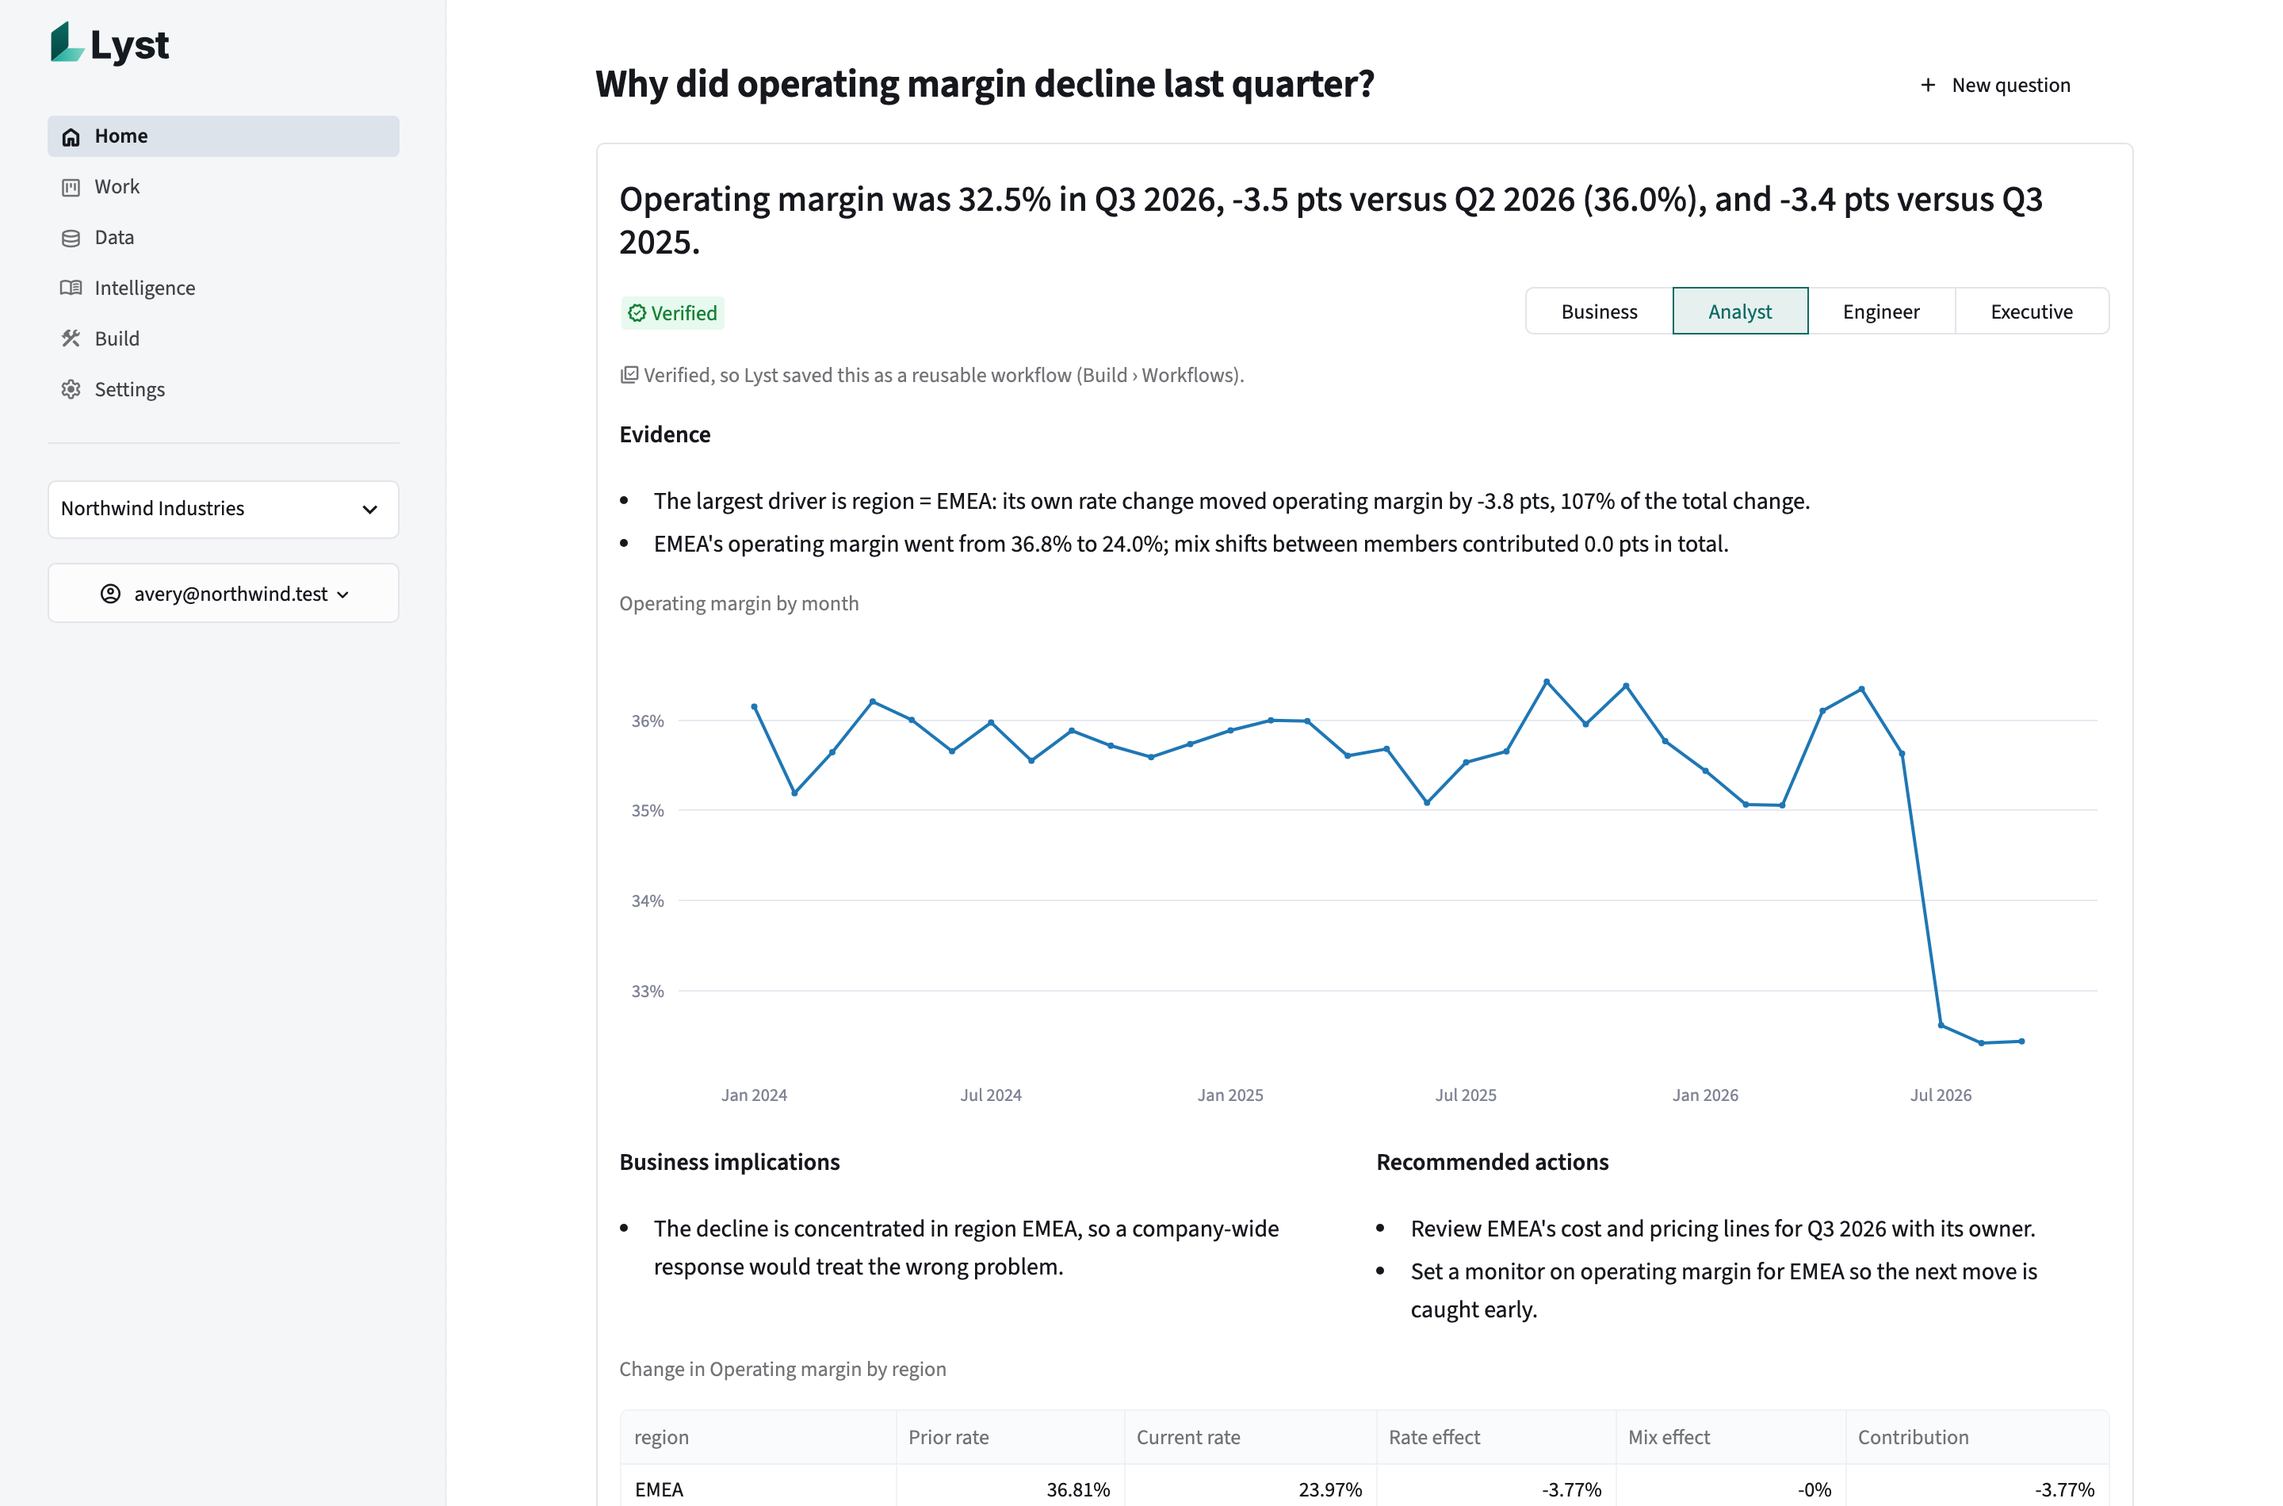
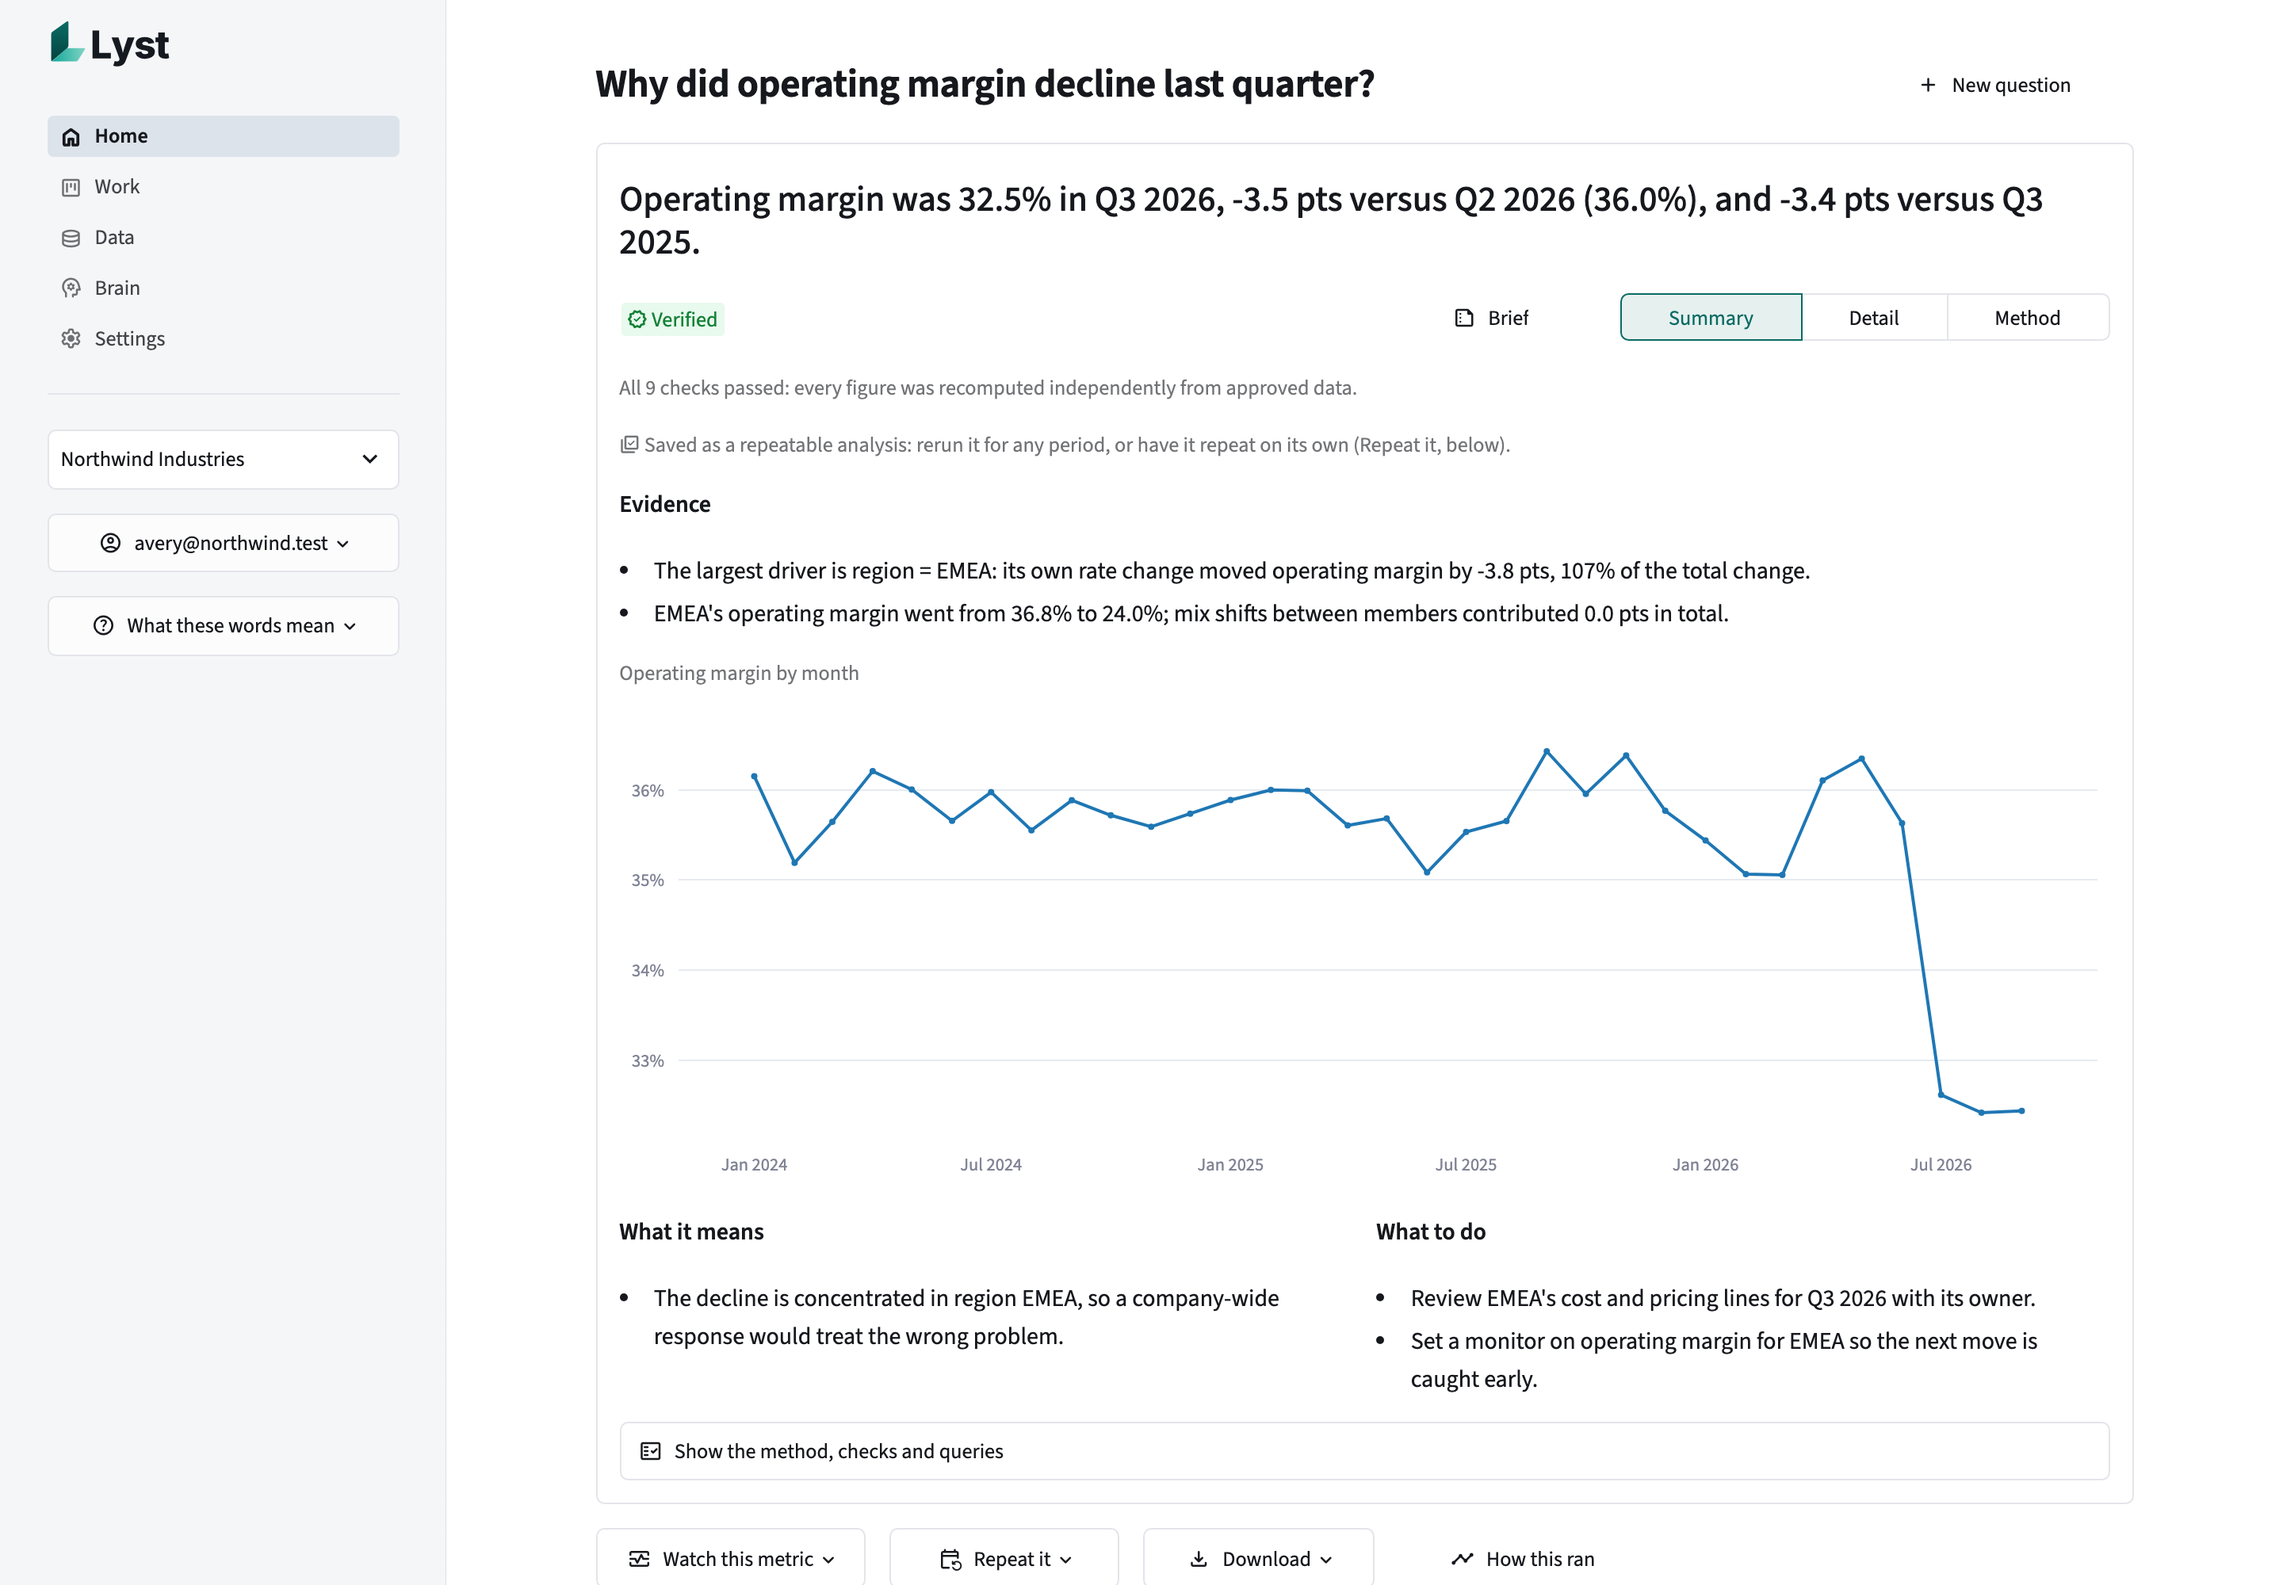
README: refresh for Home, Work, Data, Brain, Settings and Summary/Detail/Method
Brings the README in line with #22 and #23: five areas with Build folded into Data
and Intelligence renamed Brain, answer depths Summary, Detail and Method with the
Brief, metric tiles and Get started on Home, and the act bar (Watch this metric,
Repeat it, Download, How this ran). Settings sections are Models, Connections,
Workspace and Advanced. Screenshots retaken from a fresh demo on main; images for
the removed Build and Intelligence areas are deleted.

diff --git a/README.md b/README.md
@@ -22,7 +22,7 @@ Python, verifies the result independently, and returns a decision-ready answer w
 assumption behind it. It is judged by completed, verifiable work, not by conversation: every number comes from
 a query, whether or not a model is involved.
 
-![Lyst's Home answering why operating margin declined, with evidence, a trend chart and a driver table](docs/images/analyst-light.png)
+![Lyst answering why operating margin declined: a verified answer with evidence, a trend chart, what it means and what to do](docs/images/analyst-light.png)
 
 ## Quick start
 
@@ -40,7 +40,7 @@ demo workspace, starts the engine on `http://127.0.0.1:8770` and opens the inter
 
 Then ask: **"Why did operating margin decline last quarter?"** Lyst finds that operating margin fell from 36.0%
 in Q2 2026 to 32.5% in Q3 2026, that EMEA's own margin drop (36.8% to 24.0%) explains it, reconciles the
-bridge exactly, and saves the analysis as a reusable workflow. That story is planted in the demo data
+bridge exactly, and saves the analysis so it can be rerun for any period. That story is planted in the demo data
 (`src/lyst/demo.py`) so the tests can check that Lyst recovers it.
 
 No model is needed to try it. With none configured, Lyst runs on rules and templates; adding one improves
@@ -48,46 +48,53 @@ understanding and wording, never the numbers.
 
 ## A tour of the interface
 
-One navigation, six areas, light and dark themes.
+One navigation with five areas, light and dark themes, and a "What these words mean" glossary in the sidebar.
 
 | Area | What you do there |
 |---|---|
-| **Home** | Ask a question or describe the work, follow live progress, read the answer, continue where you left off |
-| **Work** | What Lyst is doing, what needs you (approvals), what finished, and what runs on its own (schedules, monitors) |
-| **Data** | Upload files or connect sources, preview and profile datasets, check quality, run guarded SQL |
-| **Intelligence** | Approved metrics and business terms, documents Lyst can cite, and what it remembers and how far to trust it |
-| **Build** | Verified workflows Lyst can rerun for any period, generated dashboards, and governed skills |
-| **Settings** | Inference (model level and costs), Secrets & Connections, members, autonomy and audit |
-
-### Every answer, four depths
-
-The same result reads four ways without rerunning anything. **Business**: the answer, evidence, implications
-and recommended actions. **Analyst**: adds tables, hypotheses, assumptions and sources. **Engineer**: adds the
-plan, every check and every query. **Executive**: the brief and the first thing to do. Limitations stay visible
-at every depth, and each answer exports as a PDF briefing, a deck, an Excel workbook or Markdown.
+| **Home** | Ask in plain words, follow live progress, and read the answer. A Get started card guides the first run, and "This month at a glance" shows a tile per approved metric with a one-click **Why?** |
+| **Work** | What needs you (approvals), what Lyst is doing and finished, and what runs on its own: watched metrics, scheduled questions and what Lyst noticed |
+| **Data** | Datasets and their sources, dashboards, saved analyses, and guarded SQL. **Add data** uploads a file or connects a source |
+| **Brain** | What Lyst knows about the business: approved metrics and business terms, documents it can cite, and what it remembers and how far to trust it |
+| **Settings** | Models (level and costs), Connections (keys and sources), Workspace (members, autonomy, audit trail) and Advanced (skills, capabilities, evaluation runs) |
 
 <p align="center">
-  <img src="docs/images/analyst-dark.png" alt="The same answer in the dark theme, rerun from a verified workflow" width="49%">
-  <img src="docs/images/home.png" alt="Home: ask Lyst, suggested questions and recent work" width="49%">
+  <img src="docs/images/home.png" alt="Home: the ask box, the Get started card and this month's metric tiles" width="80%">
+</p>
+
+### Every answer: Summary, Detail, Method, and a Brief
+
+Answers open at **Summary**: the answer, a one-line trust statement ("All 9 checks passed"), the evidence, a
+chart, what it means and what to do. **Detail** adds tables, hypotheses, assumptions and sources. **Method** adds
+the plan, every check and every query. **Brief** opens the two-line version with one chart, what to do and the PDF
+briefing, ready to forward; executive requests lead with it. Limitations stay visible at every depth.
+
+Under each answer you can act on it: **Watch this metric** sets up a monitor, **Repeat it** reruns the saved
+analysis on a schedule, **Download** gives a PDF briefing, a deck, an Excel workbook or Markdown, and **How this
+ran** shows each step, query and model call with its timing.
+
+<p align="center">
+  <img src="docs/images/brief.png" alt="The Brief: the answer, the trust line, one chart, what to do and the PDF briefing" width="49%">
+  <img src="docs/images/analyst-dark.png" alt="The same answer in the dark theme, at the Summary depth" width="49%">
 </p>
 
 <table>
   <tr>
-    <td width="50%"><img src="docs/images/work.png" alt="Work: running, done and stopped tasks"><br><b>Work</b>: needs you, activity and recurring runs</td>
-    <td width="50%"><img src="docs/images/data.png" alt="Data: datasets with rows, versions and classification"><br><b>Data</b>: datasets, connections and SQL</td>
+    <td width="50%"><img src="docs/images/work.png" alt="Work: needs you, activity and recurring runs"><br><b>Work</b>: needs you, activity and recurring runs</td>
+    <td width="50%"><img src="docs/images/data.png" alt="Data: datasets with descriptions, rows, freshness and classification"><br><b>Data</b>: datasets, dashboards, saved analyses and SQL</td>
   </tr>
   <tr>
-    <td><img src="docs/images/intelligence.png" alt="Intelligence: approved metrics and business terms"><br><b>Intelligence</b>: definitions, documents and memory</td>
-    <td><img src="docs/images/build.png" alt="Build: verified workflows ready to rerun"><br><b>Build</b>: workflows, dashboards and skills</td>
+    <td><img src="docs/images/brain.png" alt="Brain: approved metrics and business terms"><br><b>Brain</b>: definitions, documents and memory</td>
+    <td><img src="docs/images/saved-analyses.png" alt="Data, Saved analyses: a verified analysis ready to rerun"><br><b>Saved analyses</b>: verified work Lyst reruns for any period</td>
   </tr>
 </table>
 
 ### Dashboards from a sentence
 
-Build › New dashboard turns a request into a Plotly Dash app on Lyst's own kit (`src/lyst/dashkit`, vendored
-into each app so it runs anywhere with PyPI packages only): governed metrics, verified SQL, KPI cards, a trend
-with a forecast band, click-to-filter breakdowns, and a Data and method page. Every generated app is checked in
-a separate interpreter before it is offered.
+Data › Dashboards › **New dashboard** turns a request into a Plotly Dash app on Lyst's own kit
+(`src/lyst/dashkit`, vendored into each app so it runs anywhere with PyPI packages only): governed metrics,
+verified SQL, KPI cards, a trend with a forecast band, click-to-filter breakdowns, and a Data and method page.
+Every generated app is checked in a separate interpreter before it is offered.
 
 ![A generated dashboard: KPI cards, trend with forecast and breakdowns](docs/images/dash-overview-light.png)
 
@@ -100,8 +107,8 @@ a separate interpreter before it is offered.
 * **Checks its own work.** Independent validation scaled to consequence (high-stakes answers are recomputed from
   raw rows in pandas), join fan-out and stale-source detection, ambiguous terms surfaced instead of guessed, and
   model wording verified against the computed numbers.
-* **Gets faster with use.** A verified analysis compiles into a typed, versioned workflow. Matching requests
-  reuse it, and a changed schema or metric definition marks it out of date.
+* **Gets faster with use.** A verified analysis compiles into a typed, versioned saved analysis. Matching
+  requests reuse it, and a changed data layout or metric definition marks it out of date until it is verified again.
 * **Runs work durably.** Leases, checkpoints and resume after a crash; parallel steps; pause, cancel, retry and
   budgets; approval-gated schedules and monitors with an inbox and webhooks.
 * **Keeps governed knowledge.** Versioned metrics and a glossary, lineage from metric to column, documents with
@@ -127,7 +134,7 @@ OpenRouter's live catalog:
 | **Frontier** | The flagships (Claude Opus, the newest GPT, Gemini Pro, Grok) | Hard investigations |
 
 An administrator sets the default level and a ceiling; a workspace admin can also choose one specific model.
-Settings › Inference shows each level's models, OpenRouter's prices, the cost per call and per 1,000 calls, and
+Settings › Models shows each level's models, OpenRouter's prices, the cost per call and per 1,000 calls, and
 30-day spend. Quick steps such as classification run with thinking off, and an empty reply fails over to the
 next model, so the computed answer always stands.
 
@@ -137,7 +144,7 @@ A local OpenAI-compatible server (Ollama, llama.cpp, vLLM) works instead: set `L
 ## Security and secrets
 
 * **Credentials are never configuration.** The OpenRouter key, database passwords and API tokens are entered
-  once in **Settings › Secrets & Connections**, tested, sealed with AES-256-GCM envelope encryption, and never
+  once in **Settings › Connections**, tested, sealed with AES-256-GCM envelope encryption, and never
   shown again. `.env` files refuse secret-shaped names. OpenBao is supported for enterprises.
 * **The master key lives outside the data**: in the OS credential store (the Keychain on a Mac), a mounted
   secret file, or OpenBao, and never beside the database. `lyst init` sets it up and `lyst rotate-master-key`
@@ -195,7 +202,7 @@ To run on a server, see [docs/DEPLOYMENT.md](docs/DEPLOYMENT.md) (Docker Compose
 [Architecture](docs/ARCHITECTURE.md) · [Capability matrix](docs/CAPABILITY_MATRIX.md) ·
 [Models](docs/MODELS.md) · [Security](docs/SECURITY.md) · [Connectors](docs/CONNECTORS.md) ·
 [Skills](docs/SKILLS.md) · [DuckDB design](docs/DUCKDB.md) · [Deployment](docs/DEPLOYMENT.md) ·
-[Performance](docs/PERFORMANCE.md) · [Product excellence](docs/PRODUCT_EXCELLENCE.md) ·
+[Performance](docs/PERFORMANCE.md) · [UX strategy](docs/UX_STRATEGY.md) · [Product excellence](docs/PRODUCT_EXCELLENCE.md) ·
 [Engineering excellence](docs/ENGINEERING_EXCELLENCE.md) · [Known gaps](docs/GAPS.md) ·
 [Roadmap](docs/ROADMAP.md) · [Acumane audit](docs/ACUMANE_AUDIT.md) · [SBOM](docs/SBOM.md) ·
 [Decisions](docs/decisions/)
